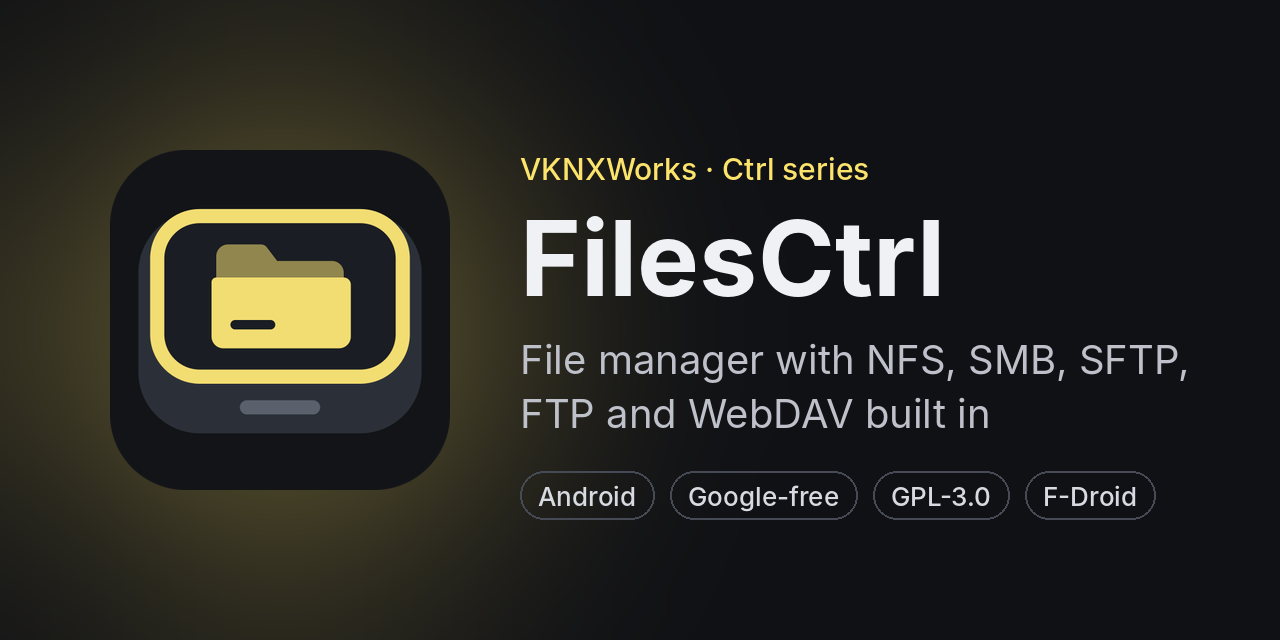
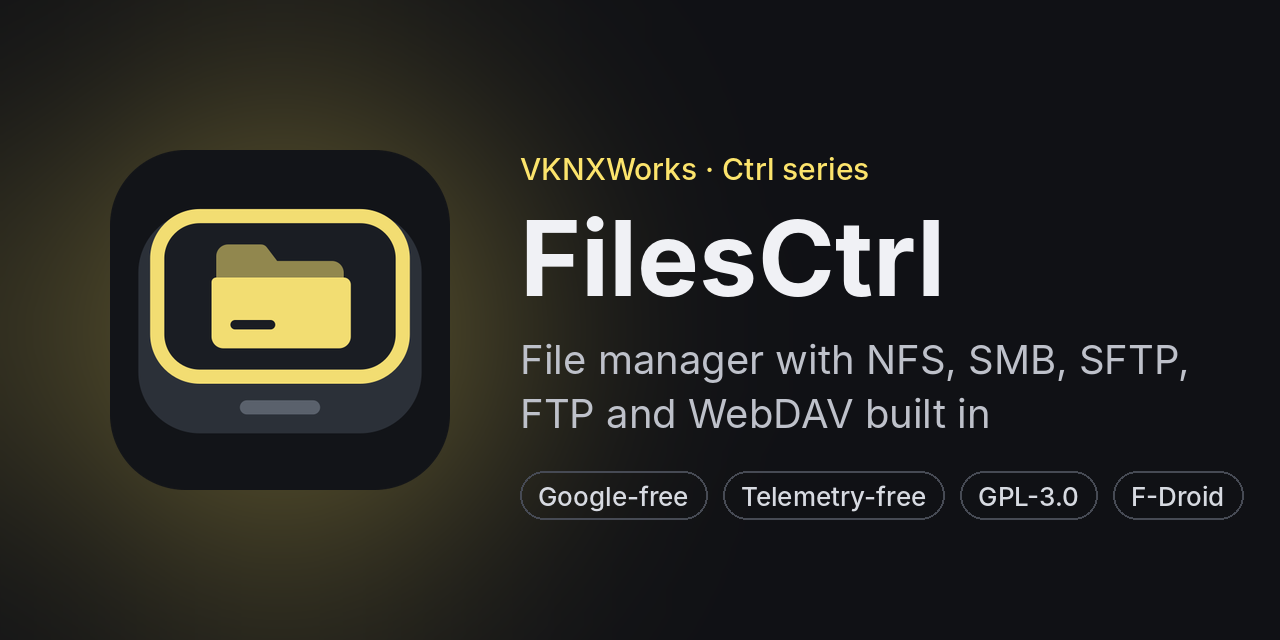
FilesCtrl 1.1.2: telemetry-free, usage stats removed
- Remove the opt-in Aptabase usage stats: Telemetry.kt, the one-time
  question, the Settings section, every tracking call and screen-view event
- Delete the two stored stats settings on first start after the update
- Drop the APTABASE_KEY/APTABASE_HOST build config and the CI key check
- README: Telemetry-free badge and a Privacy section in place of Usage stats
- Link preview image with the Telemetry-free tag

Claude-Session: https://claude.ai/code/session_01EwhEpZ1DKRJef9Cqeiv5g2

Changed region(s): [[0.4062, 0.7188, 0.9688, 0.8125]]

diff --git a/app/src/main/java/com/vknxworks/filesctrl/MainActivity.kt b/app/src/main/java/com/vknxworks/filesctrl/MainActivity.kt
@@ -79,7 +79,6 @@ import com.vknxworks.filesctrl.ui.PlacesTab
 import com.vknxworks.filesctrl.ui.ServerEditScreen
 import com.vknxworks.filesctrl.ui.SettingsTab
 import com.vknxworks.filesctrl.ui.TabIsland
-import com.vknxworks.filesctrl.ui.UsageStatsPrompt
 import com.vknxworks.filesctrl.ui.VfsTextSource
 import com.vknxworks.filesctrl.ui.isAppInDarkTheme
 import com.vknxworks.filesctrl.ui.lock.AppLockViewModel
@@ -94,7 +93,6 @@ class MainActivity : FragmentActivity() {
         // Keep file names and server contents out of the recent-apps thumbnail.
         setRecentsScreenshotEnabled(false)
         App.init(this)
-        if (savedInstanceState == null) App.telemetry.appOpened()
         enableEdgeToEdge()
         setContent {
             FilesTheme {
@@ -205,14 +203,6 @@ private fun Root(activity: FragmentActivity, lockVm: AppLockViewModel = viewMode
         return
     }
 
-    // Usage stats (only if the user opted in): the kind of screen, never the server, folder or file it shows.
-    val entry by nav.currentBackStackEntryAsState()
-    val screen = screenName(entry?.destination?.route, MainTab.selected)
-    LaunchedEffect(entry?.id, screen) {
-        if (screen != null) App.telemetry.track("screen_viewed", mapOf("screen" to screen))
-    }
-    UsageStatsPrompt()
-
     CompositionLocalProvider(LocalNav provides nav) {
         NavHost(
             nav, startDestination = "main",
@@ -244,18 +234,6 @@ private fun Root(activity: FragmentActivity, lockVm: AppLockViewModel = viewMode
             }
         }
     }
-}
-
-/**
- * "server/{id}" -> "ServerEdit", the main screen -> its tab. Only fixed names: the route templates hold no
- * arguments, and server IDs or file locations are never read here.
- */
-private fun screenName(route: String?, tab: Int): String? = when {
-    route == null -> null
-    route == "main" -> when (tab) { MainTab.PLACES -> "Places"; MainTab.SETTINGS -> "Settings"; else -> "Files" }
-    route.startsWith("server/") -> "ServerEdit"
-    route.startsWith("edit") -> "Editor"
-    else -> null
 }
 
 /**

diff --git a/app/src/main/java/com/vknxworks/filesctrl/ops/Ops.kt b/app/src/main/java/com/vknxworks/filesctrl/ops/Ops.kt
@@ -122,7 +122,6 @@ object Ops {
         val verb = if (move) "Moving" else "Copying"
         val title = "$verb ${plural(items.size, "item")}"
         val touched = listOf(dest) + if (move) items.map { it.parentLocation } else emptyList()
-        App.telemetry.fileOperation(if (move) "move" else "copy", dest.vfsId)
         return launch(title, touched) { t ->
             val dst = App.vfs.get(dest.vfsId)
             for (src in items) {
@@ -258,7 +257,6 @@ object Ops {
     // ---------- Delete ----------
 
     fun delete(items: List<FileEntry>): OpTask {
-        App.telemetry.fileOperation("delete", items.firstOrNull()?.vfsId)
         return deleteTask(items)
     }
 
@@ -284,7 +282,6 @@ object Ops {
     // ---------- Archives ----------
 
     fun compress(items: List<FileEntry>, dest: Location, name: String, format: ArchiveFormat = ArchiveFormat.ZIP, password: CharArray? = null): OpTask {
-        App.telemetry.fileOperation("zip", dest.vfsId)
         return compressTask(items, dest, name, format, password?.takeIf { it.isNotEmpty() && format.passwords })
     }
 
@@ -352,7 +349,6 @@ object Ops {
      * after it, or, for a single compressed file like "notes.txt.gz", puts the one file straight into [dest].
      */
     fun extract(archive: FileEntry, dest: Location, password: CharArray? = null): OpTask {
-        App.telemetry.fileOperation("unzip", dest.vfsId)
         return extractTask(archive, dest, password)
     }
 

diff --git a/app/src/main/java/com/vknxworks/filesctrl/data/Settings.kt b/app/src/main/java/com/vknxworks/filesctrl/data/Settings.kt
@@ -15,6 +15,13 @@ enum class SortBy { Name, Size, Modified, Type }
 class Settings(context: Context) {
     private val sp = context.getSharedPreferences("settings", Context.MODE_PRIVATE)
 
+    init {
+        // FilesCtrl 1.1.2 removed the optional anonymous stats. Delete the two settings they used (their keys
+        // start with "usage_"), so nothing from them stays on the phone after the update.
+        val leftover = sp.all.keys.filter { it.startsWith("usage_") }
+        if (leftover.isNotEmpty()) sp.edit().apply { leftover.forEach { remove(it) } }.apply()
+    }
+
     private inner class Pref<T>(private val key: String, def: T, read: (String, T) -> T, private val write: (String, T) -> Unit) {
         val state: MutableState<T> = mutableStateOf(read(key, def))
         var value: T
@@ -63,10 +70,6 @@ class Settings(context: Context) {
 
     var askedNotifications by bool("asked_notifications", false)
 
-    /** Opt-in anonymous usage stats (off until the user says yes). */
-    var usageStats by bool("usage_stats", false)
-    /** Whether the one-time usage stats question has been answered. */
-    var usageStatsAsked by bool("usage_stats_asked", false)
 
     private operator fun <T> Pref<T>.getValue(thisRef: Any?, p: kotlin.reflect.KProperty<*>): T = value
     private operator fun <T> Pref<T>.setValue(thisRef: Any?, p: kotlin.reflect.KProperty<*>, v: T) { value = v }

diff --git a/app/src/main/java/com/vknxworks/filesctrl/ui/SettingsScreen.kt b/app/src/main/java/com/vknxworks/filesctrl/ui/SettingsScreen.kt
@@ -30,7 +30,6 @@ import androidx.compose.material.icons.outlined.Fingerprint
 import androidx.compose.material.icons.outlined.FolderSpecial
 import androidx.compose.material.icons.outlined.GridView
 import androidx.compose.material.icons.outlined.Image
-import androidx.compose.material.icons.outlined.Insights
 import androidx.compose.material.icons.outlined.LightMode
 import androidx.compose.material.icons.outlined.Lock
 import androidx.compose.material.icons.outlined.Palette
@@ -195,17 +194,6 @@ fun SettingsTab() {
                     ) { lock.hideContent = it }
                     ItemDivider()
                     NavItem(Icons.Outlined.Password, "Change PIN") { pinDialog = PinMode.Change }
-                }
-            }
-        }
-
-        if (App.telemetry.available) {
-            item {
-                SettingsSection("Usage stats", footer = USAGE_STATS_DESCRIPTION) {
-                    ToggleItem(
-                        Icons.Outlined.Insights, "Share anonymous usage stats",
-                        "Helps decide what to improve next", s.usageStats,
-                    ) { App.telemetry.setOptIn(it) }
                 }
             }
         }

diff --git a/app/src/main/java/com/vknxworks/filesctrl/App.kt b/app/src/main/java/com/vknxworks/filesctrl/App.kt
@@ -11,7 +11,6 @@ import coil3.video.VideoFrameDecoder
 import com.vknxworks.filesctrl.data.Bookmarks
 import com.vknxworks.filesctrl.data.ServerStore
 import com.vknxworks.filesctrl.data.Settings
-import com.vknxworks.filesctrl.data.Telemetry
 import com.vknxworks.filesctrl.fs.RemoteVfs
 import com.vknxworks.filesctrl.fs.VfsRegistry
 import com.vknxworks.filesctrl.ops.Ops
@@ -34,8 +33,6 @@ object App {
         private set
     lateinit var lock: com.vknxworks.filesctrl.data.LockSettings
         private set
-    lateinit var telemetry: Telemetry
-        private set
 
     /** For work that outlives a screen (file operations). */
     val scope = CoroutineScope(SupervisorJob() + Dispatchers.IO)
@@ -50,7 +47,6 @@ object App {
             java.security.Security.insertProviderAt(org.bouncycastle.jce.provider.BouncyCastleProvider(), 1)
         } catch (_: Throwable) {}
         settings = Settings(context)
-        telemetry = Telemetry(context, settings, scope)
         servers = ServerStore(context)
         bookmarks = Bookmarks(context)
         vfs = VfsRegistry(context, servers)

diff --git a/app/src/main/java/com/vknxworks/filesctrl/ui/BrowserViewModel.kt b/app/src/main/java/com/vknxworks/filesctrl/ui/BrowserViewModel.kt
@@ -89,7 +89,6 @@ class BrowserViewModel : ViewModel() {
     private var searchJob: Job? = null
 
     init {
-        App.telemetry.networkBrowsed(location.vfsId)
         load()
         viewModelScope.launch {
             Ops.changed.collect { loc -> if (loc == location) load(quiet = true) }
@@ -158,8 +157,6 @@ class BrowserViewModel : ViewModel() {
 
     fun navigate(to: Location, currentIndex: Int = 0, addToHistory: Boolean = true) {
         if (to == location) { load(); return }
-        // Usage stats (if opted in): only the protocol of a network location when it's opened, never which one.
-        if (to.vfsId != location.vfsId) App.telemetry.networkBrowsed(to.vfsId)
         if (addToHistory) history.addLast(location to currentIndex)
         if (history.size > 200) history.removeFirst()
         location = to

diff --git a/app/src/main/java/com/vknxworks/filesctrl/ui/Common.kt b/app/src/main/java/com/vknxworks/filesctrl/ui/Common.kt
@@ -254,7 +254,6 @@ fun shareFiles(ctx: Context, items: List<FileEntry>) {
     intent.clipData = ClipData.newRawUri(null, uris[0]).apply { uris.drop(1).forEach { addItem(ClipData.Item(it)) } }
     intent.addFlags(Intent.FLAG_GRANT_READ_URI_PERMISSION)
     ctx.startActivity(Intent.createChooser(intent, "Share").addFlags(Intent.FLAG_ACTIVITY_NEW_TASK))
-    com.vknxworks.filesctrl.App.telemetry.fileOperation("share", files.first().vfsId)
 }
 
 /** Local path, or a URL like smb://nas/media/file for network locations. */

diff --git a/app/src/main/java/com/vknxworks/filesctrl/ui/ServerEditScreen.kt b/app/src/main/java/com/vknxworks/filesctrl/ui/ServerEditScreen.kt
@@ -237,7 +237,6 @@ fun ServerEditScreen(serverId: String?, onDone: (openId: String?) -> Unit) {
                         val s = build()
                         try {
                             App.servers.save(s)
-                            if (existing == null) App.telemetry.connectionAdded(s.type)
                             onDone(if (existing == null) s.id else null)
                         } catch (e: Exception) {
                             message = e.message ?: "Couldn't save the server"

diff --git a/README.md b/README.md
@@ -2,7 +2,7 @@
 
 **A file manager that opens your network shares.**
 
-[![Latest release](https://img.shields.io/github/v/release/VoidedKN0X/FilesCtrl?label=download)](https://github.com/VoidedKN0X/FilesCtrl/releases/latest) ![Android 13+](https://img.shields.io/badge/Android-13%2B-3DDC84?logo=android&logoColor=white) [![License: GPL-3.0](https://img.shields.io/badge/license-GPL--3.0-blue)](LICENSE) [![Sponsor](https://img.shields.io/badge/sponsor-GitHub-ea4aaa?logo=githubsponsors&logoColor=white)](https://github.com/sponsors/VoidedKN0X)
+[![Latest release](https://img.shields.io/github/v/release/VoidedKN0X/FilesCtrl?label=download)](https://github.com/VoidedKN0X/FilesCtrl/releases/latest) ![Android 13+](https://img.shields.io/badge/Android-13%2B-3DDC84?logo=android&logoColor=white) [![License: GPL-3.0](https://img.shields.io/badge/license-GPL--3.0-blue)](LICENSE) ![Telemetry-free](https://img.shields.io/badge/telemetry-none-brightgreen) [![Sponsor](https://img.shields.io/badge/sponsor-GitHub-ea4aaa?logo=githubsponsors&logoColor=white)](https://github.com/sponsors/VoidedKN0X)
 
 FilesCtrl is a Material You file manager for Android, in the spirit of [Material Files](https://github.com/zhanghai/MaterialFiles), with network storage built in: **NFS, SMB, SFTP, FTP and WebDAV**. No root needed.
 
@@ -67,16 +67,12 @@ If the Obtainium button doesn't open the app, add `https://github.com/VoidedKN0X
 
 Set the share's **uid/gid** in FilesCtrl to the owner of your files on the server (often `1000` on Linux, `1026` or higher on Synology).
 
-## Usage stats
+## Privacy
 
-FilesCtrl can share anonymous usage stats, **only if you say yes**. It asks once when you first open it, and you can change it any time in **Settings > Usage stats**.
+**Telemetry-free.** FilesCtrl has no analytics, crash reporting, usage stats or tracking of any kind. It only talks to the servers you add: your NFS, SMB, SFTP, FTP/FTPS and WebDAV servers.
 
-- **Shared:** which screens you open (Files, Places, Settings, server settings or the editor), which kinds of network storage you add and open (NFS, SMB, SFTP, FTP or WebDAV), whether you copy, move, delete, share, zip or unzip files and on which kind of storage, the app version, Android version, phone model, language, phone or tablet, and your theme setting.
-- **Never shared:** your server addresses, usernames or passwords, share or export names, file or folder names or paths, what you search for, or any ID that stays the same between sessions.
-- **Where:** VKNXWorks' own self-hosted [Aptabase](https://aptabase.com) server. Nothing goes to Google or analytics companies. Like any website, the server sees your IP address; Aptabase uses it only to work out the country and doesn't store it. Apart from this (and only when switched on), FilesCtrl only connects to the servers you add.
-- **Switching stats off** stops them straight away and throws away anything not yet sent.
-
-Builds from source don't include the stats key, so they can't send anything and the setting is hidden. The code is in [`Telemetry.kt`](app/src/main/java/com/vknxworks/filesctrl/data/Telemetry.kt).
+- Files on your phone never leave it unless you copy, move or share them yourself.
+- The Support, Report a bug, Source code and Licence links in Settings open in your browser, only when you tap them.
 
 ## Build from source
 

diff --git a/CHANGELOG.md b/CHANGELOG.md
@@ -4,6 +4,16 @@ What changed in each FilesCtrl version. Every release on the [Releases page](htt
 
 To publish a new version: bump `versionCode` and `versionName` in `app/build.gradle.kts`, add a section here, and push to `main`. Pushes without a version bump only build; they don't make a release.
 
+## 1.1.2 (2026-10-20)
+
+### Privacy
+
+- **No more usage stats: FilesCtrl is now telemetry-free.** The optional anonymous usage stats are gone completely, along with the Usage stats setting and the one-time question. The app no longer contacts VKNXWorks' stats server at all, and the settings it used are deleted from your phone when you update. FilesCtrl now only talks to the NFS, SMB, SFTP, FTP and WebDAV servers you add.
+
+### Changed
+
+- **README**: a "Telemetry-free" badge, and a Privacy section listing exactly what FilesCtrl connects to, in place of the old Usage stats section. The link preview image (`.github/assets/social-preview.png`) now carries a "Telemetry-free" tag too.
+
 ## 1.1.1 (2026-10-20)
 
 ### Changed
